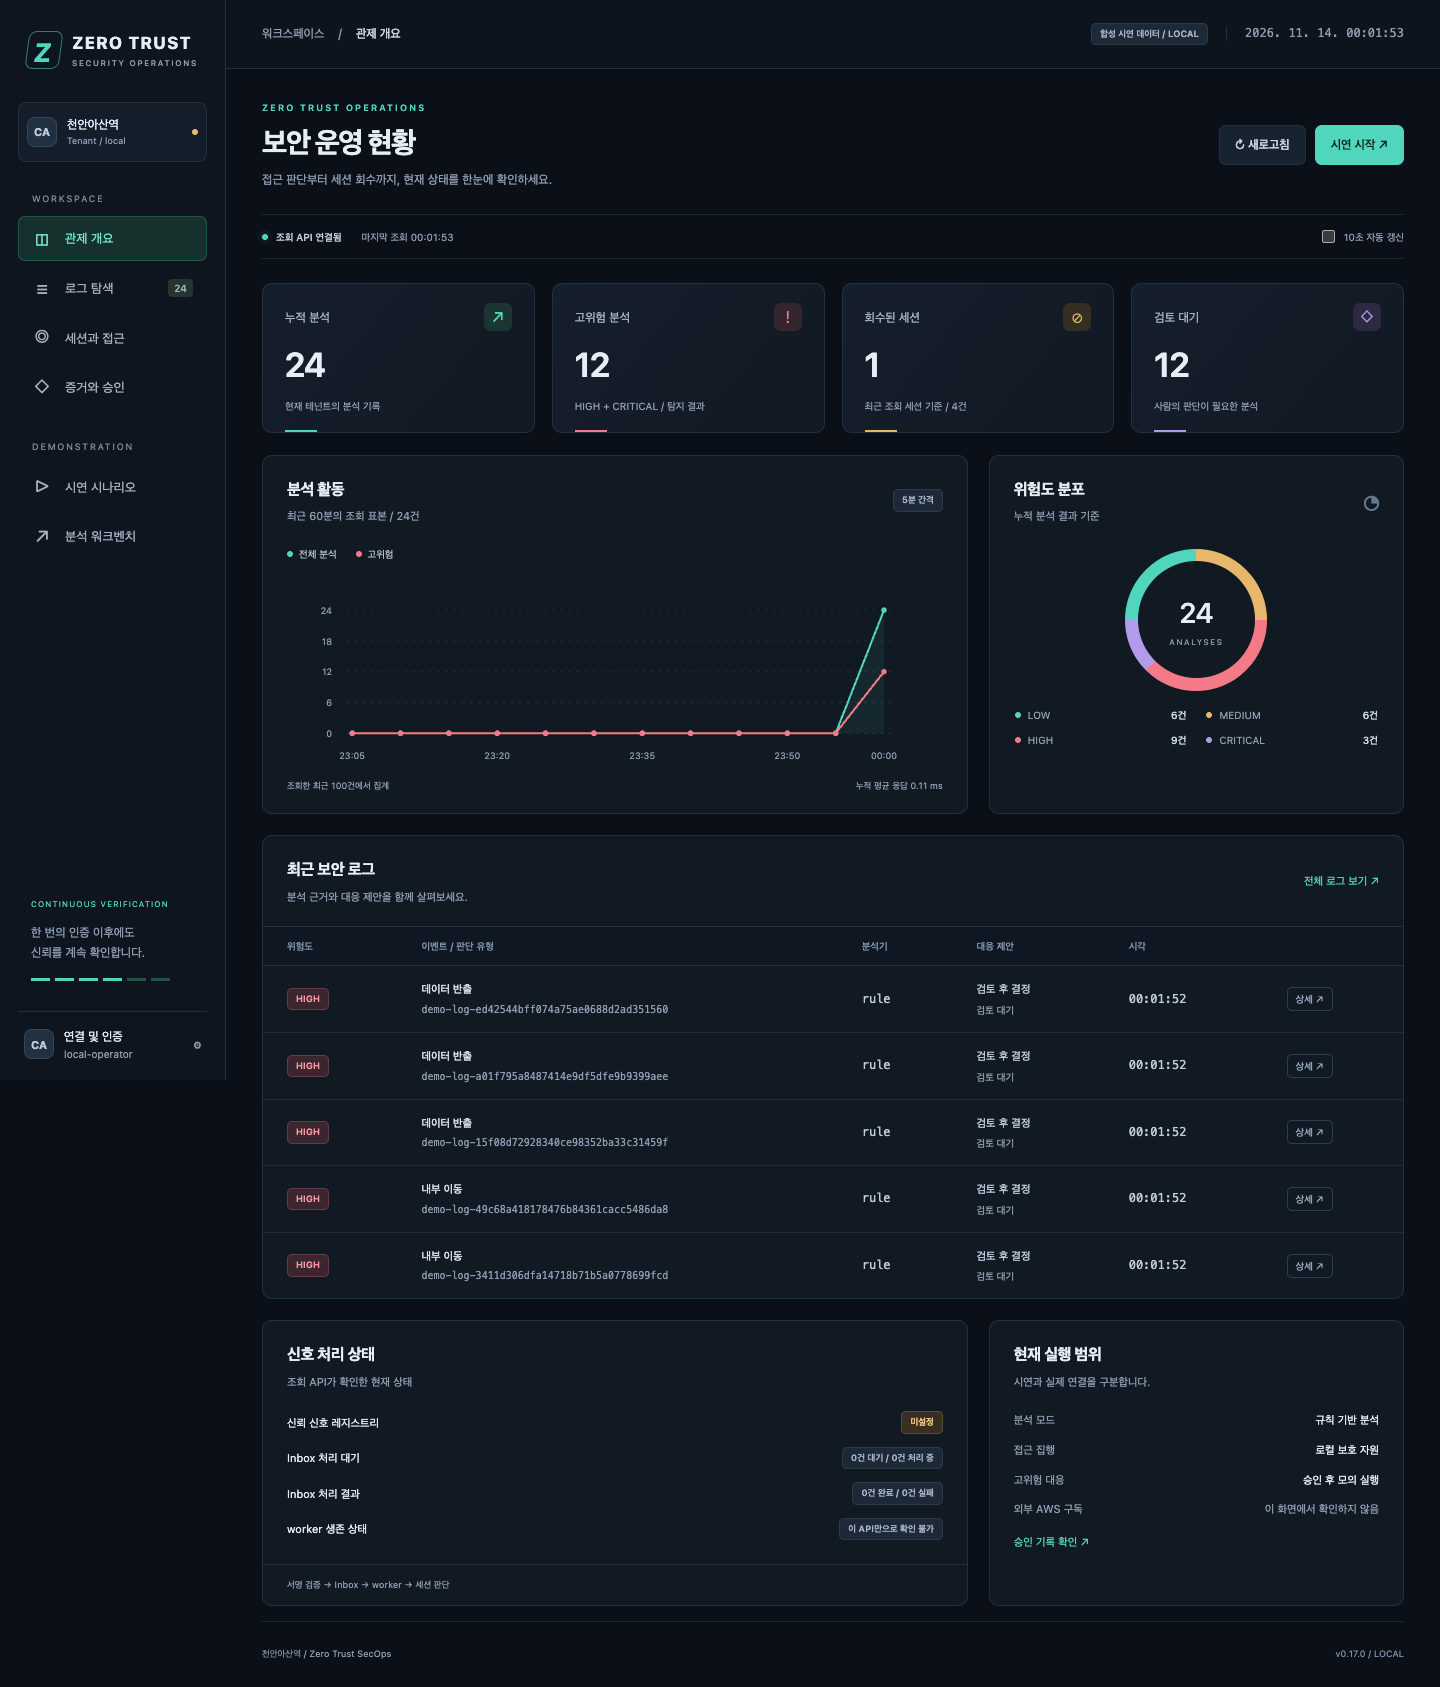
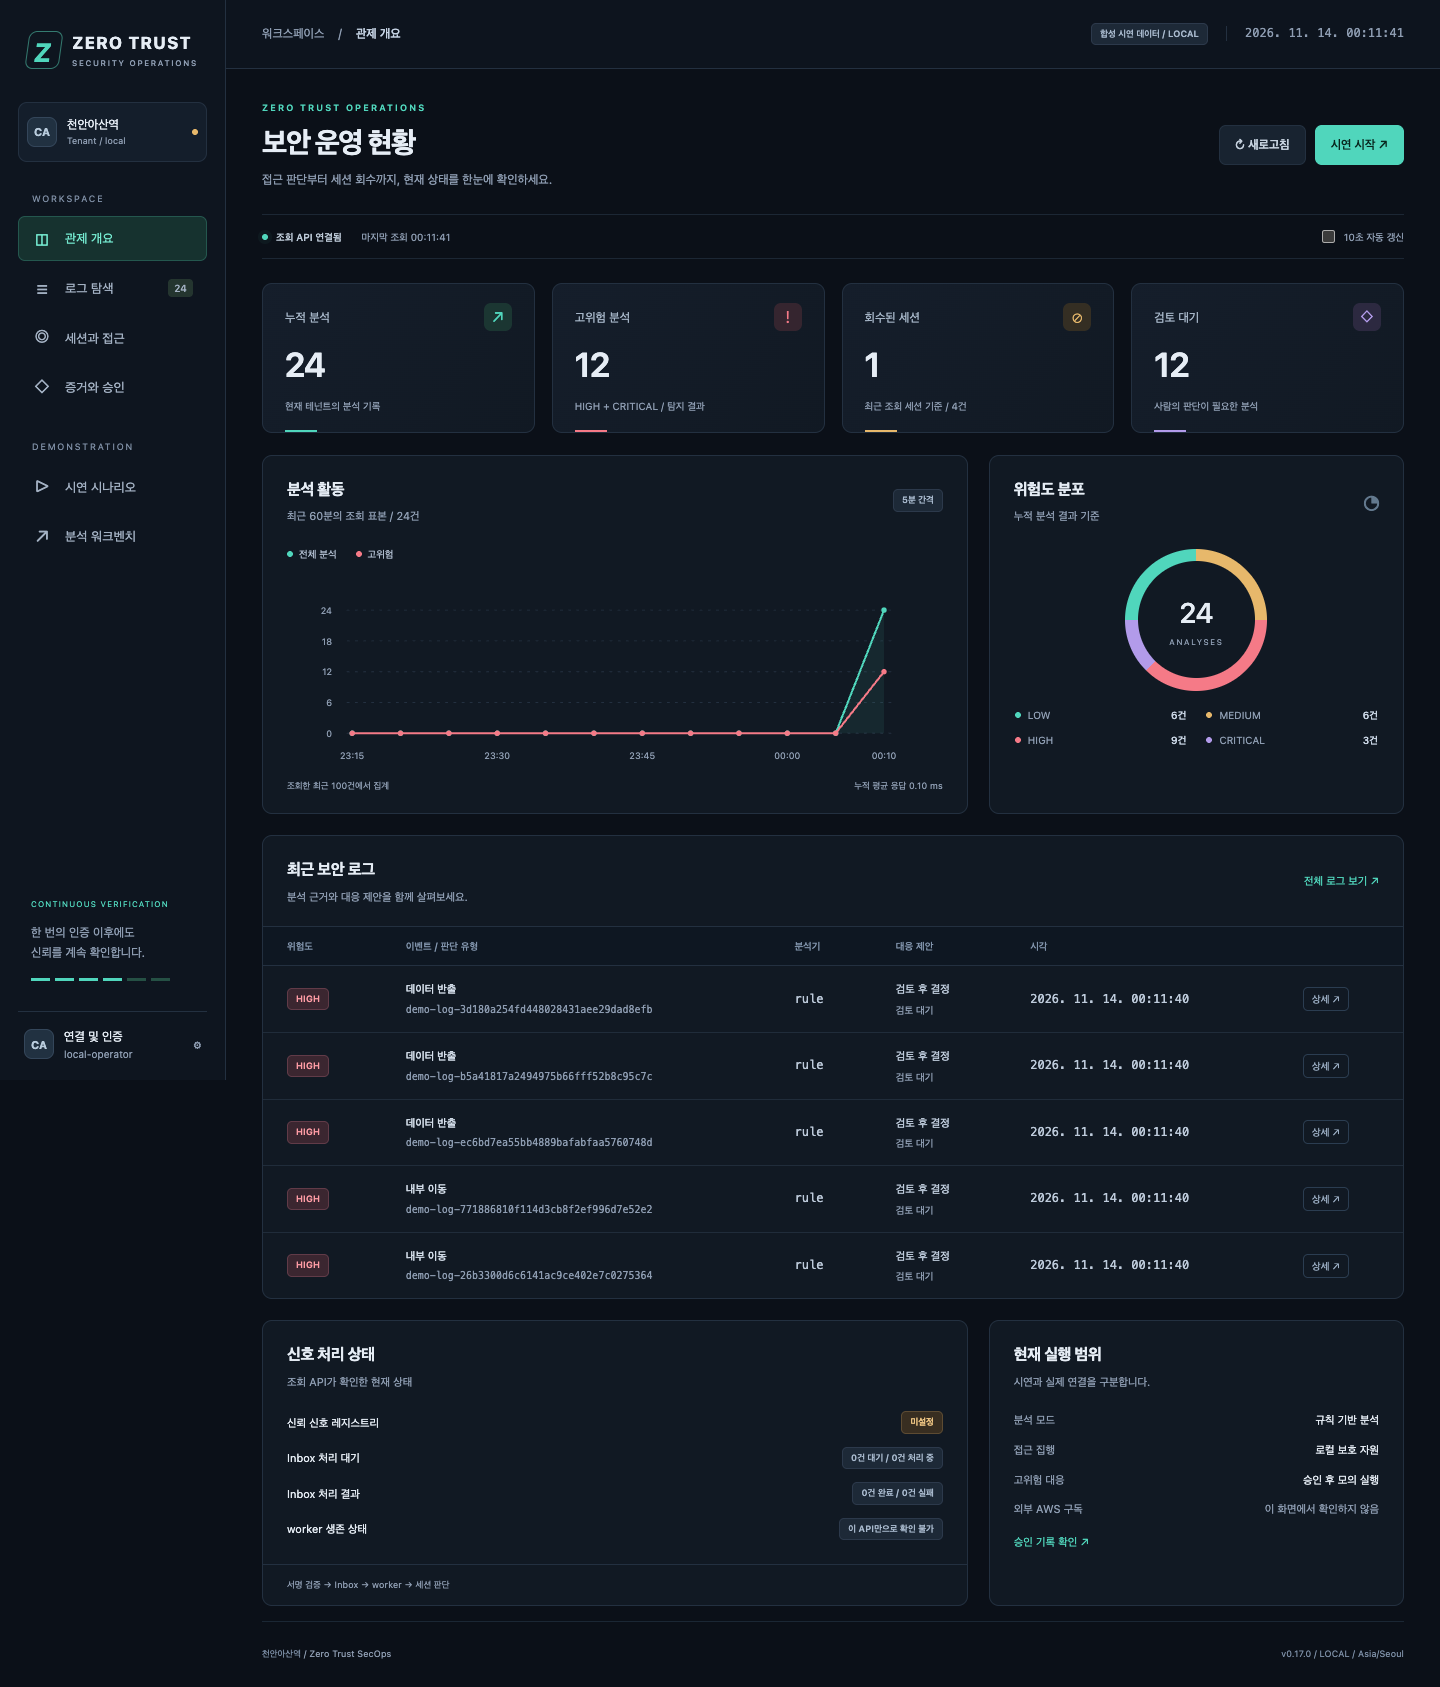
fix: distinguish historical log timestamps in dashboard

diff --git a/app/static/dashboard.js b/app/static/dashboard.js
@@ -91,6 +91,7 @@
     const stamp = new Date(value);
     if (!value || Number.isNaN(stamp.getTime())) return "—";
     return stamp.toLocaleString("ko-KR", full ? {
+      year: "numeric",
       month: "2-digit",
       day: "2-digit",
       hour: "2-digit",
@@ -316,7 +317,7 @@
       action.append(node("span", actions[record.policy_decision.action] || record.policy_decision.action), node("span", reviews[record.review_status] || record.review_status, "event-id"));
       const detail = node("td");
       detail.append(rowButton(record, "log"));
-      row.append(risk, event, node("td", record.analyzer, "mono"), action, node("td", date(record.analyzed_at), "mono"), detail);
+      row.append(risk, event, node("td", record.analyzer, "mono"), action, node("td", date(record.analyzed_at, true), "mono"), detail);
       target.append(row);
     });
   }
@@ -555,7 +556,7 @@
       openai: "OpenAI 분석",
       hybrid: "규칙 + OpenAI"
     } [health.analyzer_mode] || health.analyzer_mode : "—");
-    text("footerVersion", health ? `v${health.version} / ${health.environment.toUpperCase()}` : "LOCAL FRAMEWORK");
+    text("footerVersion", health ? `v${health.version} / ${health.environment.toUpperCase()} / ${Intl.DateTimeFormat().resolvedOptions().timeZone}` : "LOCAL FRAMEWORK");
     const errors = Object.entries(state.errors);
     const coreOkay = ["health", "identity", "metrics", "logs", "sessions"].every((key) => state.data[key]);
     text("connectionStatus", coreOkay ? (errors.length ? "일부 조회 기능 확인 필요" : "조회 API 연결됨") : "데이터 조회 확인 필요");

diff --git a/scripts/test_dashboard_browser.py b/scripts/test_dashboard_browser.py
@@ -152,6 +152,7 @@ def run(args, directory, report):
             record["assessment"]["rationale"] = '<img src=x onerror="window.uiInjected=true">'
             record["grant_token"] = "SYNTHETIC_SECRET_MUST_NOT_EXPORT"
             record["event_id"] = "hostile-fixture"
+            record["analyzed_at"] = "2025-01-02T12:34:56+00:00"
             logs_pattern = "**/results?limit=100"
             page.route(logs_pattern, lambda route: route.fulfill(json=[record]))
             page.route("**/results/hostile-fixture", lambda route: route.fulfill(json=record))
@@ -159,6 +160,8 @@ def run(args, directory, report):
             expect(page.locator("#refresh")).to_be_enabled()
             page.get_by_role("link", name="로그 탐색").click()
             expect(page.locator("#logRows")).to_contain_text("hostile-fixture")
+            expect(page.locator("#logRows")).to_contain_text("2025")
+            check("historical_logs_show_calendar_year")
             page.locator("#logRows button").click()
             expect(page.locator("#detailBody")).to_contain_text("<img src=x")
             check("stored_markup_is_text", page.locator("#detailBody img").count() == 0

diff --git a/docs/dashboard-guide.md b/docs/dashboard-guide.md
@@ -21,6 +21,8 @@
 최근 12개 5분 구간의 표본이며 마지막 구간은 진행 중이다. 회수 세션 수도 조회 표본 기준이다.
 이 숫자를 탐지 정확도, F1 또는 전체 운영 환경의 처리량으로 해석하지 않는다.
 worker의 프로세스 생존과 AWS 구독 상태는 이 조회 API만으로 확인하지 않는다.
+로그 표와 상세는 연월일을 함께 표시하며 화면 하단의 브라우저 시간대를 따른다.
+내보낸 JSON은 서버가 반환한 원래 시각과 오프셋을 보존한다.
 
 ## 별도 시연 환경 실행
 
